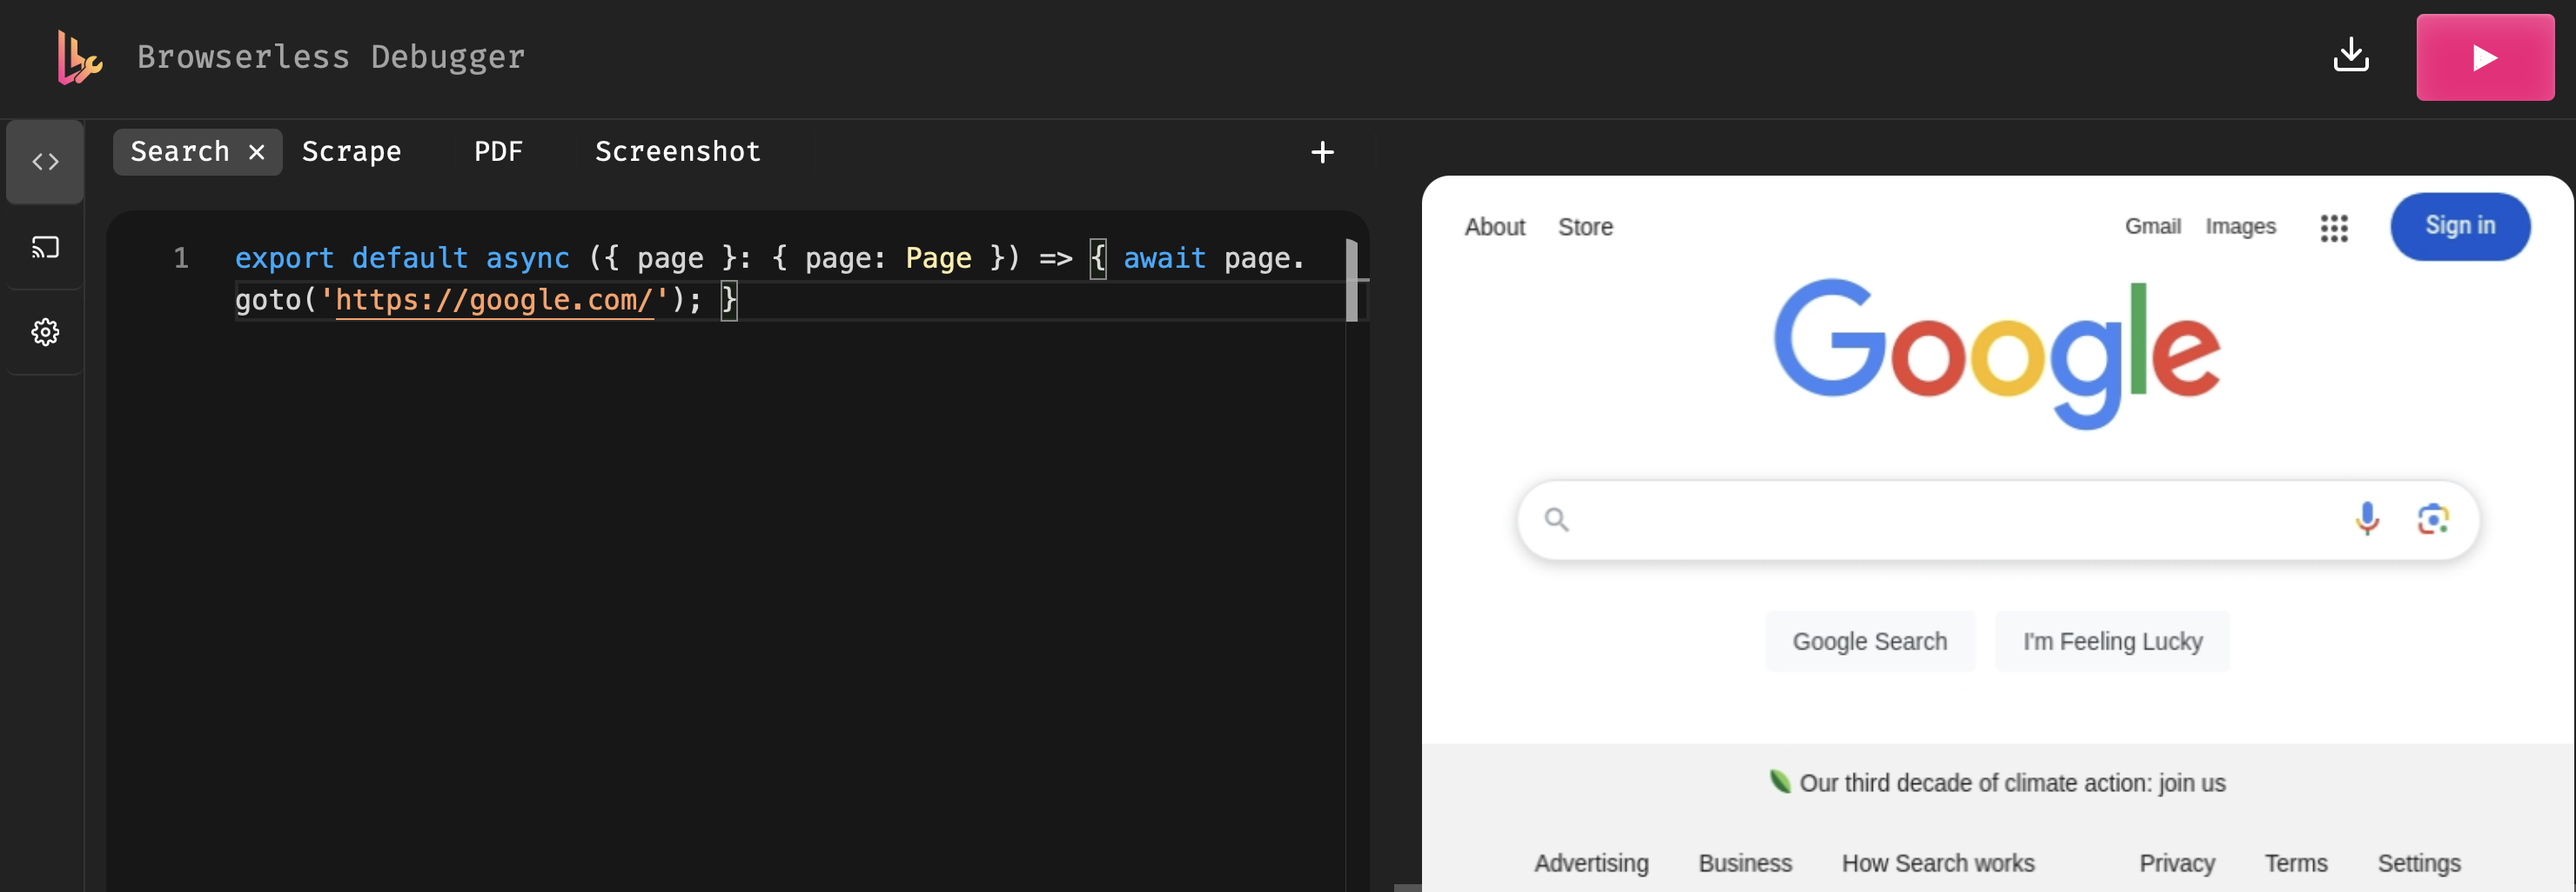
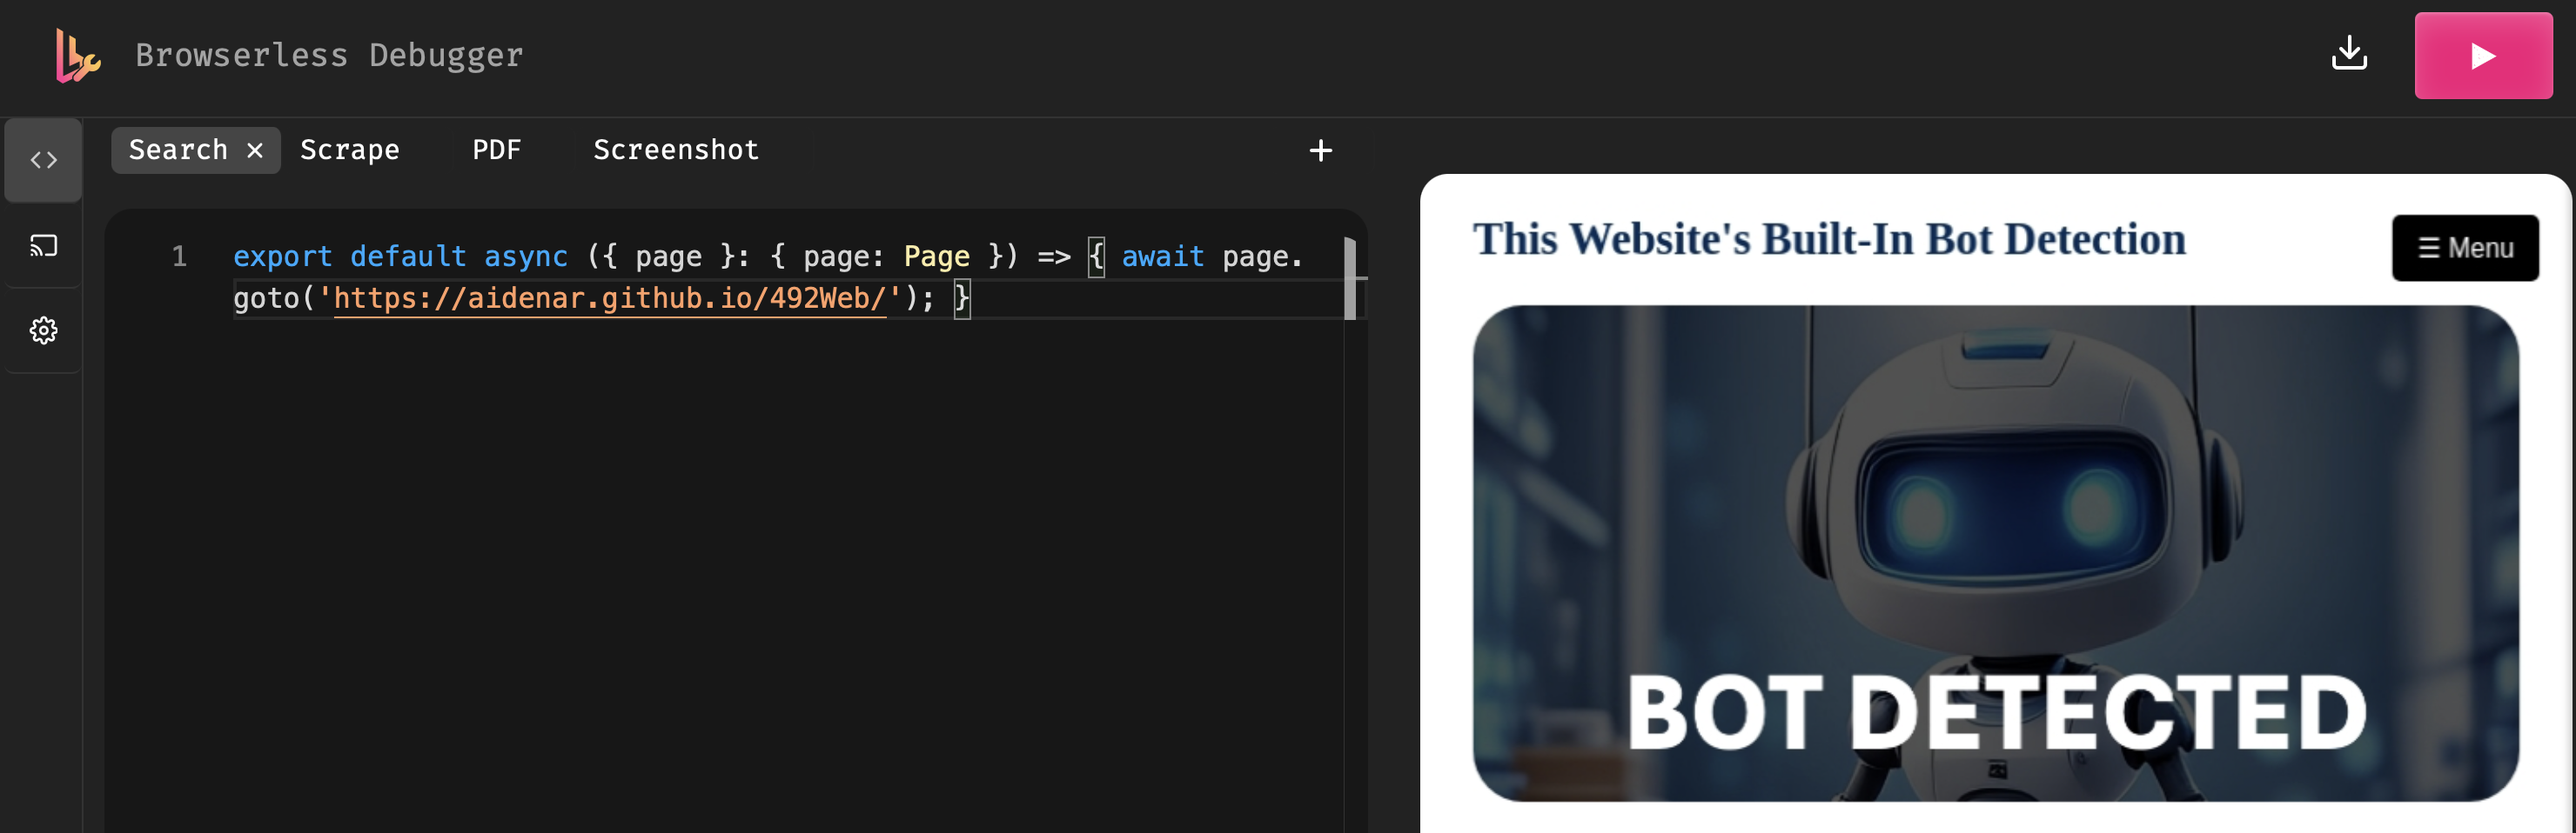
Phil - updated bot detection section with actual url

diff --git a/captchaP/public/index.html b/captchaP/public/index.html
@@ -194,7 +194,7 @@
 </head>
 <body>
   <header>
-    <h1>Reimagining CAPTCHAs</h1>
+    <h1>CS 492 Culminating Project: The Future of CAPTCHAs</h1>
   </header>
 
   <div class="menu-container">
@@ -270,7 +270,7 @@
   </section>
   
   <!-- Key Aspects / Features Section -->
-  <section>
+  <!-- <section>
     <h2 id="key_research">Key Aspects of Our Research</h2>
     <div class="card-grid">
       <div class="card">
@@ -292,7 +292,7 @@
         </p>
       </div>
     </div>
-  </section>
+  </section> -->
   
   <!-- CAPTCHA Accessibility Challenges -->
   <section>
@@ -894,7 +894,7 @@
           <h3>Copy-paste this code into <a target="_blank" href="https://chrome.browserless.io/debugger/">Browserless Debugger</a></h3>
           <p>
             <code>
-              export default async ({ page }: { page: Page }) => { await page.goto('https://google.com/'); }
+              export default async ({ page }: { page: Page }) => { await page.goto('https://aidenar.github.io/492Web/'); }
             </code>
           </p>
         </div>
@@ -902,11 +902,6 @@
       <p>
         This is what the result should look like after clicking play!
       </p>
-
-      <!-- <h3>Copy-paste this code:</h3>
-      <code>
-        export default async ({ page }: { page: Page }) => { await page.goto('https://google.com/'); }
-      </code> -->
       <img src="Browserless Debugger.png" alt="Bot Detected Screenshot" style="max-width: 100%; height: auto; border-radius: 15px; margin-top:20px;">
 
     </div>
